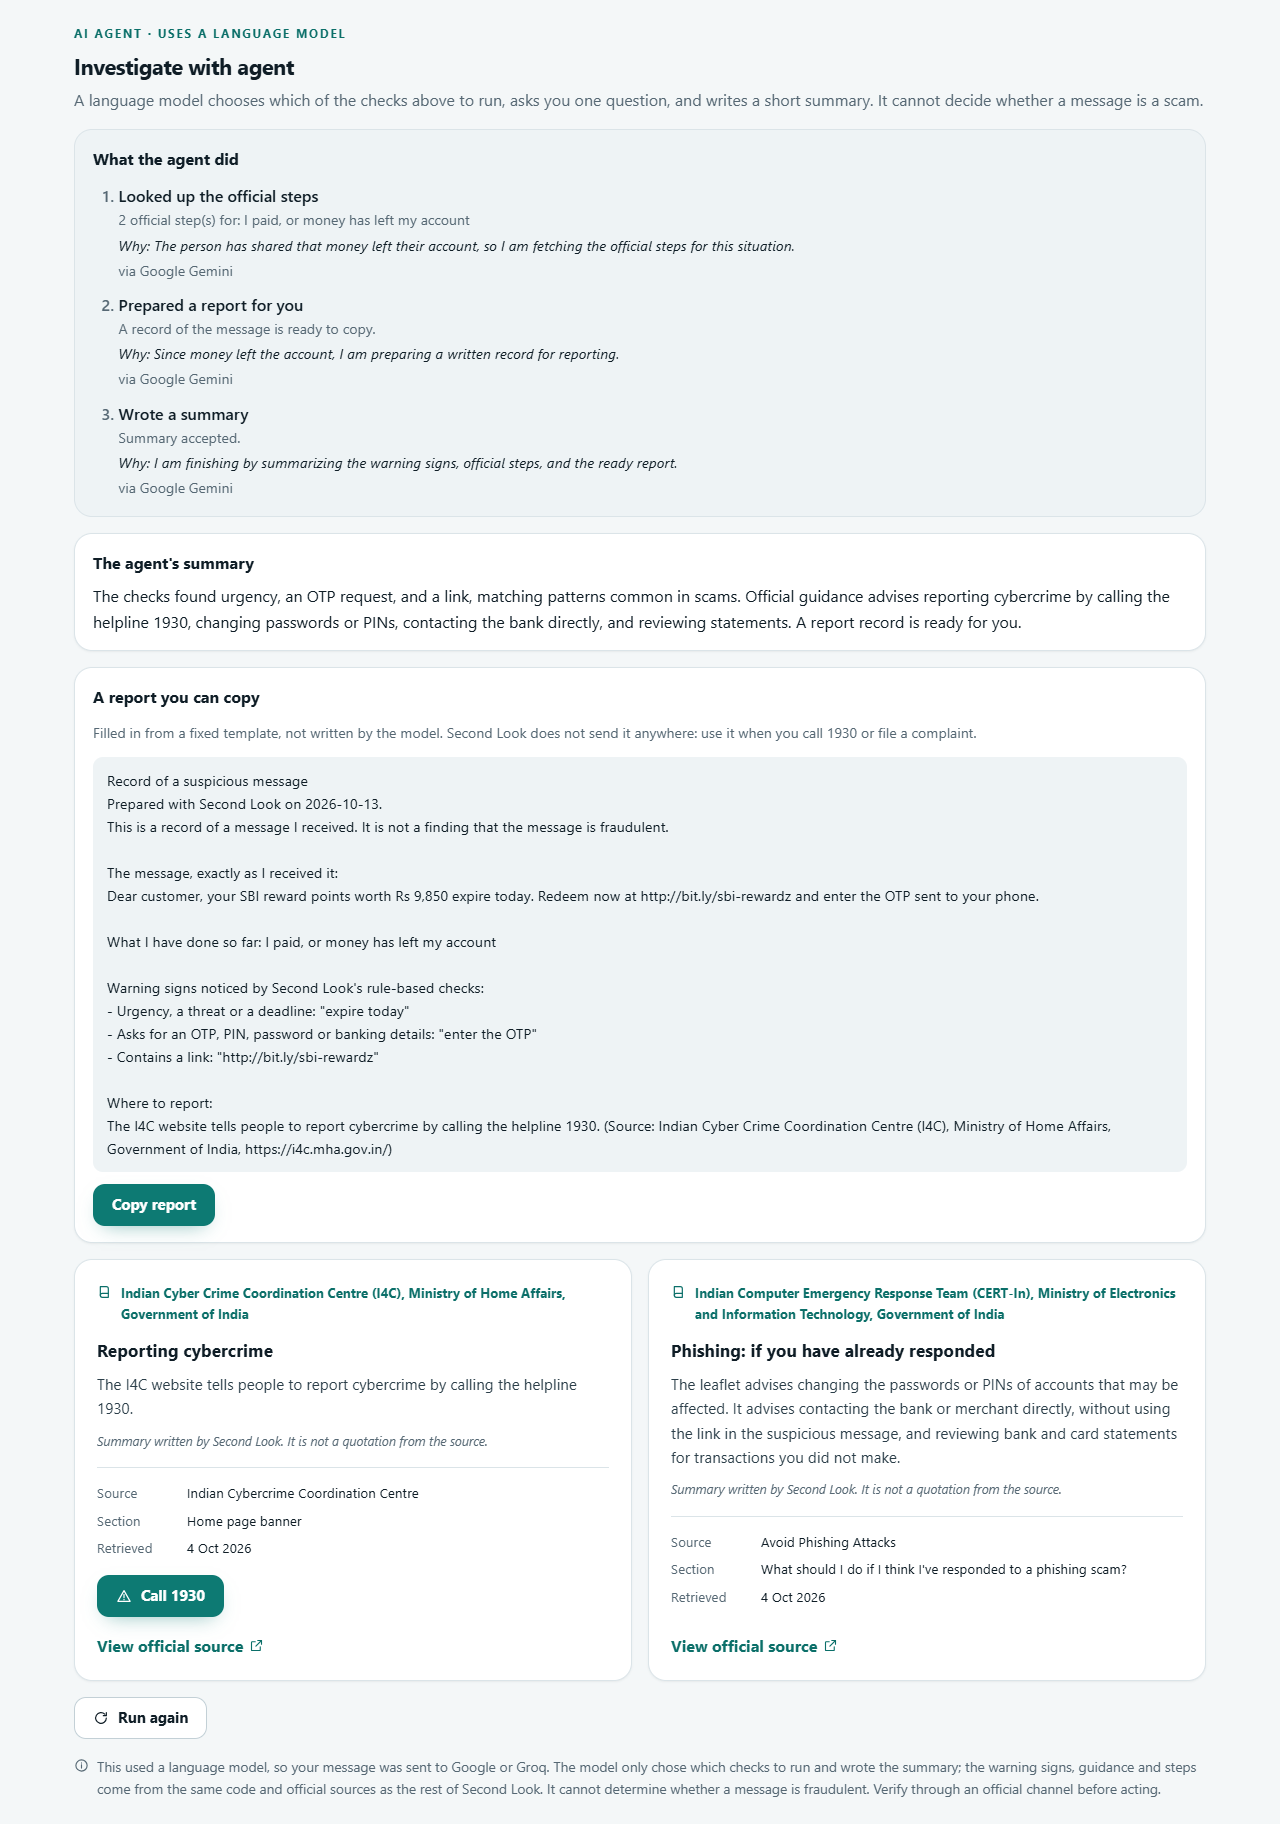
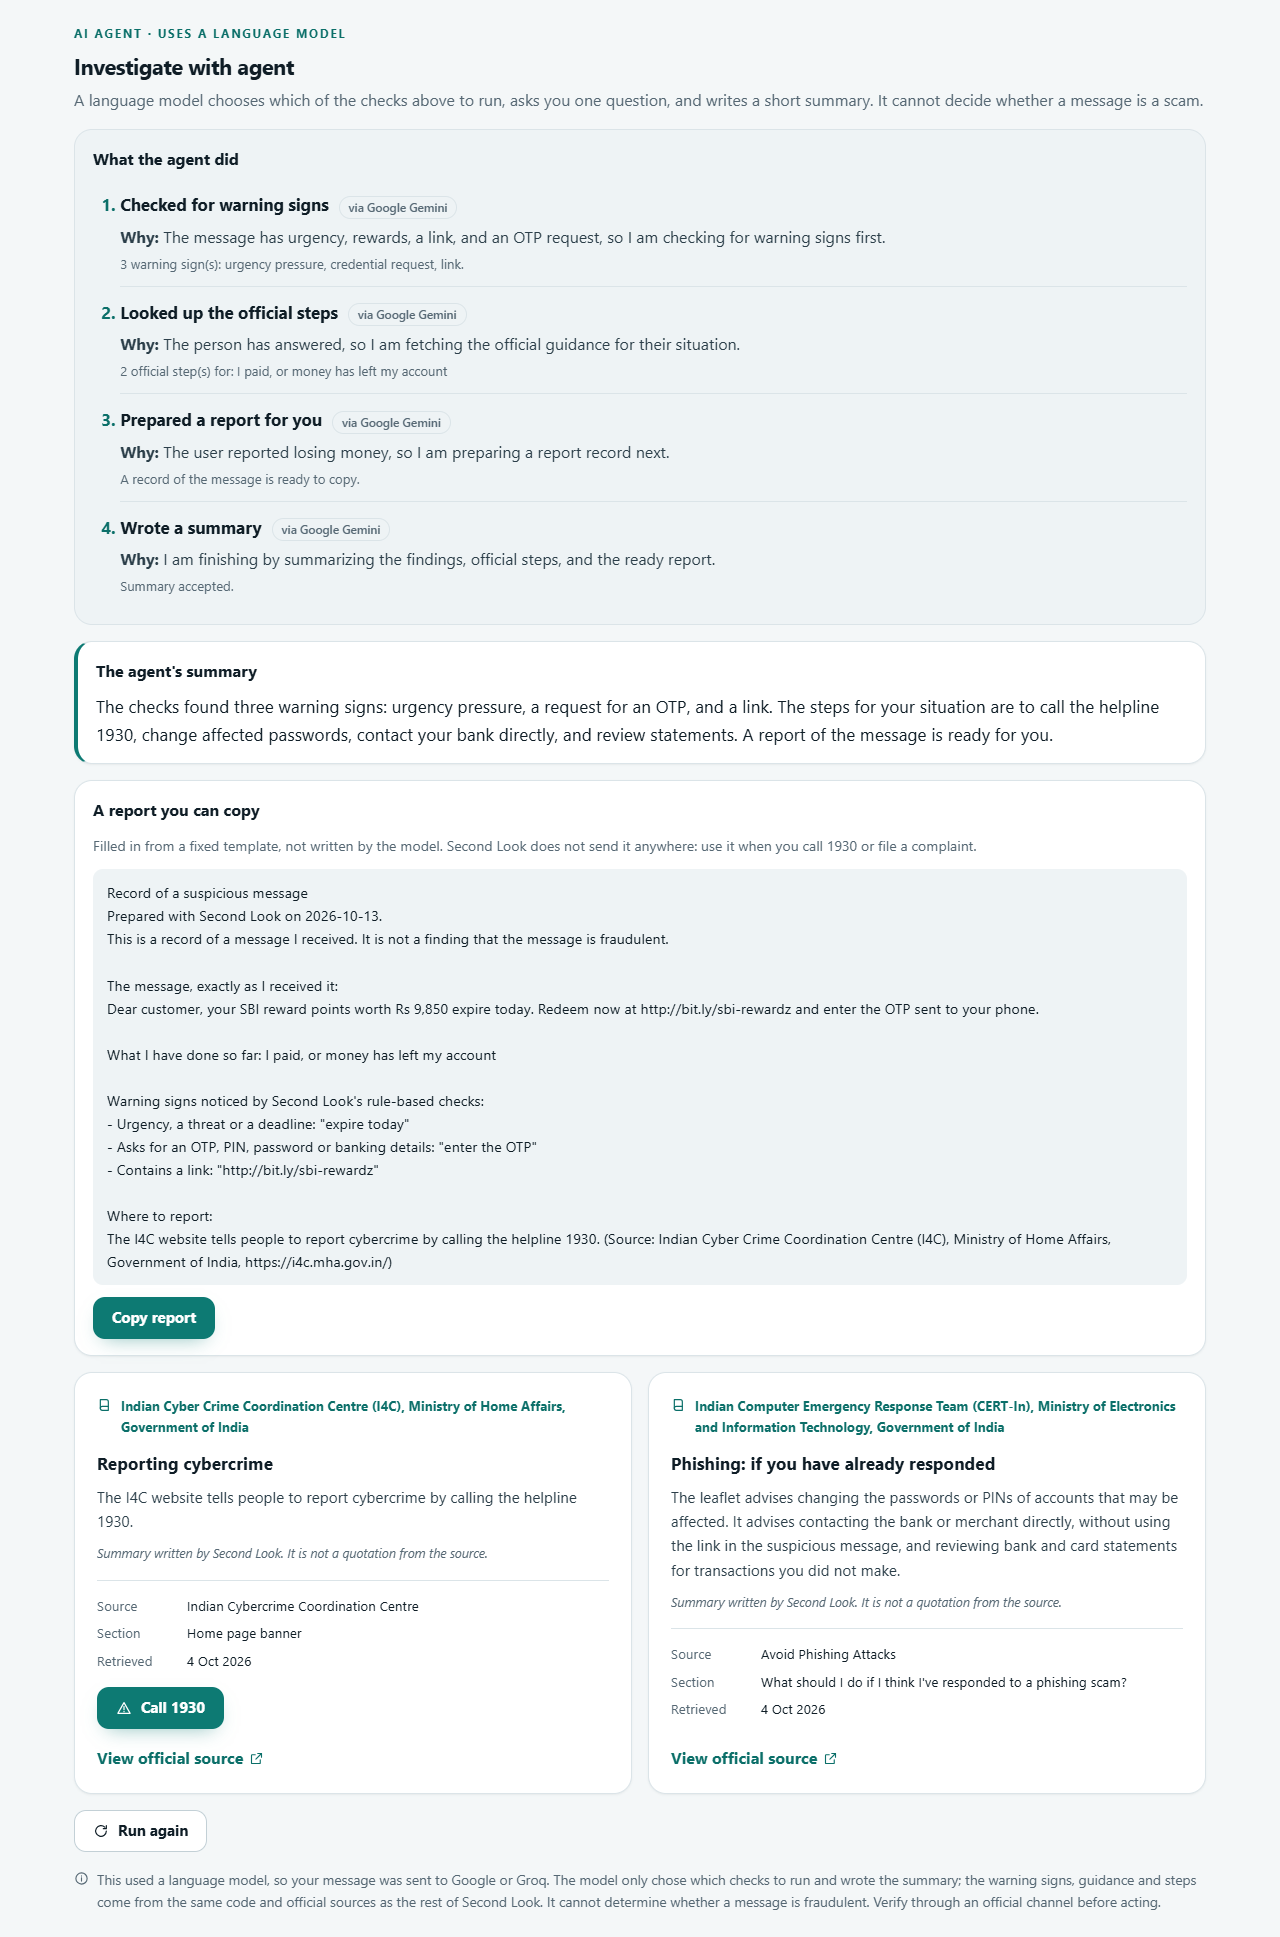
style(agent): make the agent's steps, question and summary easier to read

Changed region(s): [[0.0312, 0.0, 0.9375, 1.0], [0.5312, 0.6875, 0.9062, 0.9375]]

diff --git a/frontend/src/styles.css b/frontend/src/styles.css
@@ -1242,40 +1242,85 @@ textarea {
 
 .agent__steps {
   display: grid;
-  gap: 10px;
-  margin: 12px 0 0;
-  padding-left: 1.6em;
+  margin: 8px 0 0;
+  padding-left: 1.7em;
   list-style: decimal;
 }
 
+/* One step: what it did and who answered on the first line, why on the second, the result small below. */
+.agent__step {
+  padding: 12px 0;
+}
+
+.agent__step + .agent__step {
+  border-top: 1px solid var(--border);
+}
+
 .agent__step::marker {
-  color: var(--text-muted);
-  font-weight: 600;
+  color: var(--accent-text);
+  font-size: 1.05rem;
+  font-weight: 700;
 }
 
 .agent__step > * {
-  margin-right: 8px;
+  margin-right: 10px;
 }
 
 .agent__action {
-  font-weight: 600;
+  font-size: 1.05rem;
+  font-weight: 650;
 }
 
-.agent__detail,
 .agent__provider {
+  display: inline-block;
+  padding: 1px 9px;
+  border: 1px solid var(--border);
+  border-radius: 999px;
   color: var(--text-muted);
-  font-size: 0.88rem;
-}
-
-.agent__detail {
-  display: block;
+  font-size: 0.74rem;
+  font-weight: 600;
+  white-space: nowrap;
+  vertical-align: middle;
 }
 
 .agent__reason {
   display: block;
-  margin-top: 2px;
-  font-size: 0.9rem;
-  font-style: italic;
+  margin-top: 6px;
+  color: var(--text-soft);
+  font-size: 1rem;
+  line-height: 1.5;
+}
+
+.agent__detail {
+  display: block;
+  margin-top: 4px;
+  color: var(--text-muted);
+  font-size: 0.82rem;
+}
+
+/* The question is the one thing the person has to do, so it stands out. */
+.agent__question {
+  padding: 18px;
+  border: 1px solid var(--accent);
+  border-radius: 14px;
+  background: var(--accent-soft);
+}
+
+/* Floating the legend puts it inside the box instead of across its border. */
+.agent__question .agent__heading {
+  float: left;
+  width: 100%;
+  font-size: 1.2rem;
+}
+
+/* The summary is the agent's answer. */
+.agent__summary {
+  border-left: 4px solid var(--accent);
+}
+
+.agent__summary p {
+  font-size: 1.08rem;
+  line-height: 1.6;
 }
 
 .agent__report-actions {
@@ -1289,8 +1334,6 @@ textarea {
   display: grid;
   gap: 12px;
   margin: 0;
-  padding: 0;
-  border: 0;
 }
 
 .agent__answers {

diff --git a/frontend/src/components/Results.tsx b/frontend/src/components/Results.tsx
@@ -382,20 +382,20 @@ function AgentInvestigation({ message, autoStart, language, text }: { message: s
                   {entry.outcome !== "ok" && (
                     <span className="pill pill--neutral">{text.agentOutcomes[entry.outcome] ?? entry.outcome}</span>
                   )}
+                  {entry.provider && text.agentProviders[entry.provider] && (
+                    <span className="agent__provider">{text.agentProviders[entry.provider]}</span>
+                  )}
+                  {/* The model's own words for why it took this step, shown only if the server's check accepted them. */}
+                  {entry.reason && (
+                    <span className="agent__reason">
+                      <strong>{text.agentWhy}</strong>
+                      <span lang="en">{entry.reason}</span>
+                    </span>
+                  )}
                   {/* Written by the server's code, not by the model, and only in English. */}
                   <span className="agent__detail" lang="en">
                     {entry.detail}
                   </span>
-                  {/* The model's own words for why it took this step, shown only if the server's check accepted them. */}
-                  {entry.reason && (
-                    <span className="agent__reason">
-                      {text.agentWhy}
-                      <span lang="en">{entry.reason}</span>
-                    </span>
-                  )}
-                  {entry.provider && text.agentProviders[entry.provider] && (
-                    <span className="agent__provider">{text.agentProviders[entry.provider]}</span>
-                  )}
                 </li>
               ))}
             </ol>
